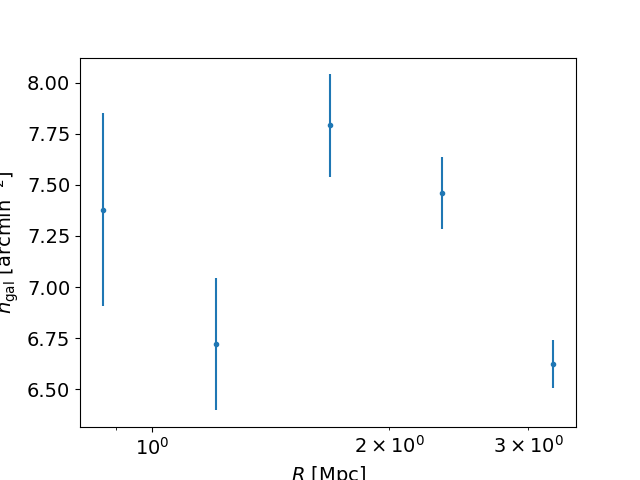
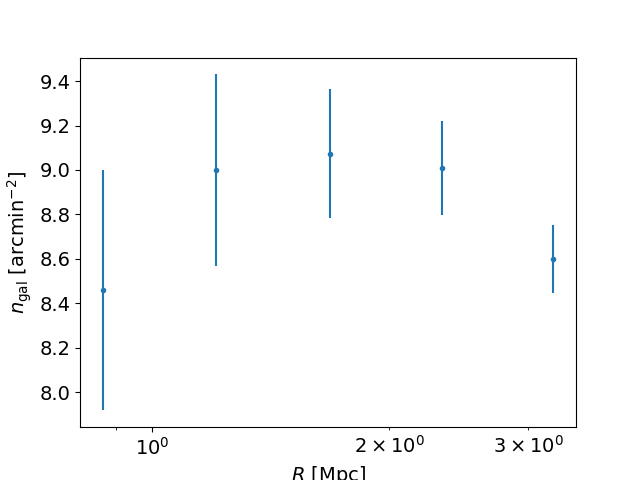
many misc. edits

diff --git a/index.md b/index.md
@@ -3,11 +3,9 @@
 ```{abstract}
 (Full author list to be determined)
 
-The purpose of this technote is to test the technical quality of LSSTComCam commissioning data, specifically the Rubin_SV_38_7 field, by utilizing cell-based coadds and Metadetection by measuring the tangential and cross weak lensing shear profiles of the massive cluster Abell 360 (called A360 throughout the technote). The process entails generating the cell-based coadds for Metadetection to run on, identifying and removing cluster member galaxies, applying quality cuts, and calibrating the shear measurements. Once a shear profile is generated, validation is the bulk of the remaining analysis.
+The purpose of this technote is to test the technical quality of LSSTComCam commissioning data, specifically the Rubin_SV_38_7 field, by utilizing cell-based coadds and Metadetection by measuring the tangential and cross weak lensing shear profiles of the massive cluster Abell 360 (called A360 throughout the technote). The process entails generating the cell-based coadds for Metadetection to run on, identifying and removing cluster member galaxies, applying quality cuts, calibrating the shear measurements, and validation.
 
-Cell-based coadds and Metadetection are both currently in the process of being implemented within the LSST Science Pipelines at the time of this technote. There is substantial technical value in attempting a difficult measurement prior to full implementation. Measuring the tangential shear around A360 will showcase the current abilities of these algorithms, as well as highlight where work is still needed.
-
-As seen from the resulting shear profile of A360, the cell-based coadds and Metadetection are able to work in tandem to produce a shear catalog. The shear profile performs best in radial bins further away from the cluster center (beyond ~ 2 Mpc), which may be due to high occurances of blending near the cluster center.
+Cell-based coadds and Metadetection are both currently in the process of being implemented within the LSST Science Pipelines at the time of this technote. There is substantial technical value in attempting a difficult measurement prior to full implementation. Measuring the tangential shear around A360 will showcase the current abilities of these algorithms, as well as highlight where work is still needed. As seen from the resulting shear profile of A360, the cell-based coadds and Metadetection are able to work in tandem to produce a shear catalog and resulting reduced shear profile.
 
 This technote is one part of a series studying A360 in order to both stress test the commissioning camera  and demonstrate the technical capabilities of the Vera Rubin Observatory. We study the quality of the PSF modeling and impact it can have on cluster WL in {cite:p}`SITCOMTN-161`, implementation of cell-based coadds and subsequent use for Metadetect {cite:p}`Sheldon_2023` in this technote, photometric calibration in (in prep), source selection and photometric redshifts in {cite:p}`SITCOMTN-163`, use of Anacal {cite:p}`Li_2023` to produce a cluster shear profile in {cite:p}`SITCOMTN-164`, and background subtraction in this field and Fornax in {cite:p}`SITCOMTN-165`.
 ```
@@ -212,13 +210,13 @@ tasks:
                 config.ref_loader.filterMap = {'lsst_'+band: 'monster_ComCam_%s' % (band) for band in 'ugrizy'}
 ```
 
-An important note is that, for this analysis, a single noise image is associated for each cell within Metadetection. A noise image is generated for each warp that is also subjected to the warping process, which is needed to accurately capture correlated noise ({cite:p}`Sheldon_2017`, {cite:p}`Sheldon_2020`). The noise distribution is randomly pulled from a Gaussian distribution centered at 0 with a variance equal to the median variance of the input image.
+An important note is that, for this analysis, a single noise image is associated for each cell within Metadetection. A noise image is generated for each warp that is also subjected to the warping process, which is needed to accurately capture correlated noise ({cite:p}`Sheldon_2017`, {cite:p}`Sheldon_2020`). The noise distribution is randomly pulled from a Gaussian distribution centered at zero with a variance equal to the median variance of the input image.
 
-After removing duplicated objects from patch overlap, there are a total of 1174579 object rows across the five shear type catalogs. After removing objects flagged by Metadetection (i.e. objects cut due to measurement failures), there are 967436 objects, about 17.6% of the initial catalog. The number of flagged objects is quite high, and requires further investigation.
+The raw catalog immediately after running Metadetection contains 1398239 objects total. After removing objects flagged by Metadetection (i.e. objects cut due to measurement failures), there are 984169 total objects. Removing duplicates from patch overlap reduce the catalog to 805401 objects, and removing duplicates from individual cell overlaps leaves 443,615 objects. The non-sheared sub-catalog is consistently ~20% of the total catalog.
 
 ## Red Sequence Galaxy Identification
 
-Cluster member galaxies of the lensing cluster structure will not have a lensing signal (at least not from the cluster itself). Due to this, these galaxies need to be identified and removed from the lensing sample to avoid diluting the shear signal ({cite:p}`signal_dilution`). These lensing galaxies are primarily identified through visual inspection using color-magnitude plots across three different bands in this technote. Other methods, like photometric redshifts, may also be used, though using only three available bands limits this approach.
+Cluster member galaxies of the lensing cluster structure will not have a lensing signal (at least not from the cluster itself). Due to this, these galaxies need to be identified and removed from the lensing sample to avoid diluting the shear signal ({cite:p}`signal_dilution`). These lensing galaxies are primarily identified through visual inspection using color-magnitude plots across three different bands in this technote. Other methods, like photometric redshifts, may also be used, though using only three available bands limits this approach. The RS identification here is done prior to other cuts to more easily visually identify the red sequence galaxies.
 
 ```{figure} _static/object-magnitudes.png
 :name: obj-mags
@@ -230,9 +228,9 @@ A series of color-magnitude plots with progressive cuts is used to visually iden
 
 The catalog is first cut to galaxies less than 0.1 degree away from the BCG to focus on galaxies that are more likely to be cluster members. The red sequence cluster members are identified in a line of objects with relatively consistent color across a range of magnitudes, with the line being more apparent in the smaller sample of galaxies. This line of galaxies is highlighted with orange points, with the upper and lower limits shown in red. The same visual inspection is done again for the larger sample of galaxies, those within 0.5 degrees of the BCG.
 
-RS galaxies are selected if they satisfy one of the two requirements in all 3 color-magnitude diagrams: the data point falls within the range identified during visual inspection, **or** the 1-$\sigma$ error bars for the color measurement intersect the RS range. The error bar requirement is meant to capture potential RS galaxies that may fall out of the selection region due to noisy measurements, particularly at the fainter end. The RS identification is then also limited to galaxies with `gauss_band_mag_r` < 24. While RS galaxies may be fainter than this, it becomes more difficult to distinguish between RS and background galaxies. Since unsheared foreground galaxies will dilute the signal, but not bias it, a small contamination is allowed to keep the many source galaxies that may otherwise be cut. Any remaining bright galaxies (those with `gauss_band_mag_i` < 20) are removed below as described in the selection cut section.
+RS galaxies are selected if they satisfy one of the two requirements in all 3 color-magnitude diagrams: the data point falls within the range identified during visual inspection, **or** the 1-$\sigma$ error bars for the color measurement intersect the RS range. The error bar requirement is meant to capture potential RS galaxies that may fall out of the selection region due to noisy measurements, particularly at the fainter end. The RS identification is then also limited to galaxies with 18 < `gauss_band_mag_r` < 24. While RS galaxies may be fainter than this, it becomes more difficult to distinguish between RS and background galaxies. Since unsheared foreground galaxies will dilute the signal, but not bias it, a small contamination is allowed to keep the many source galaxies that may otherwise be cut. Any remaining bright galaxies (those with `gauss_band_mag_r` < 20) are removed below as described in the selection cut section.
 
-Once the RS galaxies are identified, they are removed from the sample of galaxies within 0.5 degrees of the BCG, which the becomes the sample that goes on the further selection cuts.
+The sample of galaxies within 0.5 degrees of the BCG goes on to further selection cuts in the next section, with the identified RS galaxies removed and masks applied. The masks include bright objects, galactic cirrus, SFD dust, and areas with low numbers of exposures. Mask details can be found in (in prep technote). The impact of cuts applied within the 0.5 degree sample are summarized in {numref}`mag_dist_nums`.
 
 ```{figure} _static/01-RS-all_cuts.png
 :name: color-magnitude-0-1-orange
@@ -252,23 +250,17 @@ Color-magnitude diagram cut to 0.5 degrees within the BCG. Objects that are incl
 Color-magnitude diagram cut to 0.5 degrees within the BCG. Objects that are included within the cut are removed.
 ```
 
-After applying the 0.5 degree cut, but prior to removing RS objects, there are 595377 object rows. After applying the RS cuts, there are 258449, with 51633 (~20%) of which are the non-sheared catalog.
-
 ## Selection Cuts
 
-After Metadetection flags are applied and red sequence galaxies are identified and removed, additional selection cuts are applied. These cuts are primarily based on {cite:p}`yamamoto`, though are customized in several cases to better fit the data from LSSTComCam. A detailed outline of the cuts used and object removed can be seen in {numref}`selection_cuts`. In numerical terms, the number of objects remaining after selection cuts is 78500, with 15819 (20%) in the non-sheared catalog.
+Once the RS galaxies are removed and masks are applied, additional selection cuts are introduced. These cuts are primarily based on {cite:p}`yamamoto`, though are customized in several cases to better fit the data from LSSTComCam. A detailed outline of the cuts used and object removed can be seen in {numref}`selection_cuts`. The Yamamoto cuts describe a size ratio cut, defined as the size of the object squared divided by size of the PSF squared, or $T^{gauss}/T^{gauss}_{PSF}$. This is used as a star-galaxy cut. For the Yamamoto measurements and the measurements here, these sizes are measured for the pre-PSF objects, so stars will hover around 0 for this ratio. Based on {numref}`obj_T_vs_s2n`, the stars identified around `gauss_T_ratio` = 0 appear to fall consistently below `gauss_T_ratio` = 0.2. This smaller value is chosen instead of the Yamamoto value for the `gauss_T_ratio` cut of 0.5, since the inclusion of extra galaxies in this weak lensing sample outweighs the potential inclusion of some low S/N stars. Additional differences include the magnitude cut, which is based off of {numref}`mag-cut-hist2`, and the junk cuts and size cuts which are specific to DES and don't seem to appear to affect the final catalog using LSSTComCam data.
 
-The Yamamoto cuts describe a size ratio cut, defined as the size of the object squared divided by size of the PSF squared, or $T^{gauss}/T^{gauss}_{PSF}$. This is used as a star-galaxy cut. For the Yamamoto measurements and the measurements here, these sizes are measured for the pre-PSF objects, so stars will hover around 0 for this ratio. Based on {numref}`obj_T_vs_s2n`, the stars identified around `gauss_T_ratio` = 0 appear to fall consistently below `gauss_T_ratio` = 0.2. This smaller value is chosen instead for the `gauss_T_ratio` cut, since the inclusion of extra galaxies in the weak lensing sample outweighs the potential inclusion of some low S/N stars.
-
-There are a few additional differences from the {cite:p}`yamamoto` cuts. The magnitude cut is based off of {numref}`mag-cut-hist2` and {cite:p}`SITCOMTN-161`, while the junk cuts and size cuts are specific to DES and don't seem to appear to affect LSSTComCam data. Additionally, masks for bright objects, galactic cirrus, SFD dust, and areas with low numbers of exposures are applied. Mask details can be found in (in prep technote).
-
-:::{table} Each cut applied to the Metadetection catalog after the RS cuts. Note that the number of rows removed is for each individual cut, so cuts may overlap with other cuts.
+:::{table} Each cut applied to the Metadetection catalog after the RS cuts and applied masks. Note that the number of rows removed is for each individual cut, so cuts may overlap with other cuts.
 :name: selection_cuts
 :widths: auto
 
 | Selection Cut                            | Rows Removed | Fraction Removed |
 | :--------------------------------------- | -----------: | ---------------: |
-| `gauss_T_ratio` > 1.05                   | 76863        | 37.5%            |
+| `gauss_T_ratio` > 0.2                    | 65132        | 31.8%            |
 | `gauss_s2n` > 10                         | 30335        | 14.8%            |
 | `mfrac` < 0.1                            | 0            | 0.0%             |
 | `gauss_band_mag_i` < 23.5                | 74987        | 36.6%            |
@@ -278,33 +270,33 @@ There are a few additional differences from the {cite:p}`yamamoto` cuts. The mag
 | `gauss_color_mag_g-i` (abs. value) < 5   | 574          | 0.3%             |
 :::
 
-As a visual summary of the cuts done to produce the sample, it's helpful to plot the distribution of magnitudes, in a similar vein as Figure 2 in {cite:p}`mag_cut`. While one goal of the magnitude cut is to reduce the impact of the SNR cut (discussed more in the photo-z section), which would align closer to a cut closer to `i_mag` < 24.1, a cut of 24.0 is chosen to be consistent with {cite:p}`SITCOMTN-161`. A description of each label can be found in {numref}`mag_dist_nums`, with the numbers in the non-sheared catalog after each cut is applied. The cuts listed for {numref}`mag-cut-hist2` and {numref}`mag_dist_nums` are not in the same order that the cuts are applied within the shear profile analysis, but are rather used to understand the significance of the SNR cut.
+As a visual summary of the cuts done to produce the sample, it's helpful to plot the distribution of magnitudes, in a similar vein as Figure 2 in {cite:p}`mag_cut`. A description of each label can be found in {numref}`mag_dist_nums`, along with the numbers in the non-sheared catalog after each cut is applied. Some of the selection cuts are separated into their own rows to better capture their individual impact. Of particular note is the `i_mag` cut: while {cite:p}`SITCOMTN-161` uses a cut of 24.0, a smaller cut of 23.5 is chosen to reduce the significance of the SNR cut. We don't want SNR to be a significant cut since the photo-z data used (next section) was trained on the Extended Chandra Deep Field South (ECDFS) data, which has different SNR properties.
 
 ```{figure} _static/mag-cut-hist2.png
 :name: mag-cut-hist2
 
-Magnitude distributions of the *i*-band after various cuts done to produce the weak lensing sample. Left: All cuts are applied in the order described in {numref}'mag_dist_nums'. Right: The magnitude cut is not applied to show where the SNR cut becomes significant at fainter magnitudes and begins to remove objects. The magnitude cut is instead represented by the vertical line.
+Magnitude distributions of the *i*-band after various cuts done to produce the weak lensing sample. Left: All cuts are applied in the order described in {numref}'mag_dist_nums'. Right: The magnitude cut is not applied to show where the SNR cut becomes significant at fainter magnitudes and begins to remove a substantial number of objects. The magnitude cut is instead represented by the vertical line.
 ```
 
-:::{table} The number of objects in each of the magnitude histograms in {cite:p}`mag_cut` and the descriptions of the cuts used. While the table {numref}`selection_cuts` shows the total number of rows removed, this table is meant to show the additive effect as each cut is applied. All objects are within 0.5 degrees of the BCG.
+:::{table} The number of objects in each of the magnitude histograms in {cite:p}`mag_cut` and the descriptions of the cuts used. While the table {numref}`selection_cuts` shows the total number of rows removed, this table is meant to show the additive effect as each cut is applied. All objects are within 0.5 degrees of the BCG for consistency, such that the "all detections" and "good detections" rows may have smaller values than seen in previous sections.
 :name: mag_dist_nums
 :widths: auto
 
-| Cut Name             | Description                                         | Rows in non-sheared catalog |
-| :------------------- | :-------------------------------------------------- | --------------------------: |
-| **All detections**   | Detections that have a finite *i*-band magnitude    | 178698                      |
-| **Good detections**  | Flagged and duplicate objects removed               | 54228                       |
-| **Masks**            | Masks are applied                                   | 42806                       |
-| **WL Cuts**          | Selection cuts                                      | 39735                       |
-| **Star-galaxy**      | Size ratio cut to remove stars from the sample      | 25001                       |
-| **Magnitude Cut**    | Magnitude where SNR begins to remove objects        | 18645                       |
-| **SNR Cut**          | Objects with SNR < 10 are removed                   | 18566                       |
-| **RS Cuts**          | Red sequence galaxies are identified and removed    | 17651                       |
+| Cut Name             | Description                                       | Rows in non-sheared catalog (% of total catalog) |
+| :------------------- | :------------------------------------------------ | -----------------------------------------------: |
+| **All detections**   | Detections that have a finite *i*-band magnitude  | 172157 (20.022%)                                 |
+| **Good detections**  | Flagged and duplicate objects removed             |  54228 (20.006%)                                 |
+| **RS Cuts**          | Red sequence galaxies are identified and removed  |  51804 (20.009%)                                 |
+| **Masks**            | Masks are applied                                 |  40949 (20.000%)                                 |
+| **WL Cuts**          | Selection cuts                                    |  38297 (19.999%)                                 |
+| **Star-galaxy**      | Size ratio cut to remove stars from the sample    |  26326 (19.969%)                                 |
+| **Magnitude Cut**    | Magnitude where SNR begins to remove objects      |  18461 (19.978%)                                 |
+| **SNR Cut**          | Objects with SNR < 10 are removed                 |  18385 (19.975%)                                 |
 :::
 
-For reference against another catalog, it's useful to look at the number of objects found in the HSM catalog ({cite:p}`HSM1`, {cite:p}`HSM2`) used in {cite:p}`SITCOMTN-161` within the same 0.5 degree radius as used in this technote. The HSM catalog first reads in 175383 objects prior to any cuts, and then 12852 objects after all cuts are applied. This is a similar ballpark as the final Metadetect catalog size of 17651, especially considering that the selection and quality cuts of two catalogs differ due to the nature of separate catalogs.
+For reference against another catalog, it's useful to look at the number of objects found in the HSM catalog ({cite:p}`HSM1`, {cite:p}`HSM2`) used in {cite:p}`SITCOMTN-161` within the same 0.5 degree radius as used in this technote. The HSM catalog first reads in 175383 objects prior to any cuts, and then 12852 objects after all cuts are applied. This is a similar ballpark as the final Metadetect catalog size of 18385, especially considering that the selection and quality cuts of two catalogs differ due to the nature of separate catalogs.
 
-The global source density for Metadetection is 8.14 $\pm$ 0.1 $\text{arcmin}^{-2}$, comparable to the 7-8 $\text{arcmin}^{-2}$ range found using the HSM catalog in {cite:p}`SITCOMTN-161`. The density for the Metadetection catalog does trend a bit higher, towards the range of 8-9 $\text{arcmin}^{-2}$, though this is likely due to the fact that this HSM estimate does not yet account for the area affected by masks.
+The source density across all radial bins for Metadetection is 8.5 $\pm$ 0.1 $\text{arcmin}^{-2}$, with a range of 8-9.4 $\text{arcmin}^{-2}$, as seen in {numref}`galaxy-den-profile`. The density for the Metadetection catalog does trend higher than the HSM catalog, which has a range of 7-8 $\text{arcmin}^{-2}$. This is most likely due to the final sizes of the different catalogs, though it should also be noted that the HSM catalog does not yet incorporate masks, which will affect both the final number count and effective area covered by the catalog.
 
 ```{figure} _static/gal_den_profile.png
 :name: galaxy-den-profile
@@ -316,7 +308,7 @@ The galaxy density within each radial bin used for the shear profile. Error bars
 
 In order to model a shear profile to compare to the observed data, an $N(z)$ estimate will be needed. With the utilities available in the Cluster Lensing Mass Modeling (CLMM) code {cite:p}`clmm`, there is a default source redshift distribution based off of the DESC Science Requirements Document (SRD, {cite:p}`desc-srd`) Y10 N(z). However, this is not very representative of the data that's being used here, which is comparatively much shallower. Instead, the initial photo-z catalog used here is created with DNF ({cite:p}`DNF_pz`) on DP1 data, produced in the same manner as described in {cite:p}`SITCOMTN-163`.
 
-The objects in the Metadetection catalogs are then matched to the objects in the DP1 catalogs by nearest neighbor, based on RA/DEC coordinates and limited to matches within 1 arcsecond. The matching is only needed for the non-sheared catalog, which is the catalog used for the $N(z)$ estimate. Objects are then additionally cut from the matched catalogs if they fall below a redshift estimate of 0.37, based on the cut used in {cite:p}`SITCOMTN-163`. The $N(z)$ generated by the method above is ***not*** used for the shear profile generated by the data, only for the test model used for reference. Future works with Metadetection data should run photo-z algorithms on each of the shear profile catalogs individually to fully capture the additional selection effects within the response.
+The objects in the Metadetection catalogs are then matched to the objects in the DP1 catalogs by nearest neighbor, based on RA/DEC coordinates and limited to matches within 1 arcsecond. The matching is only needed for the non-sheared catalog, which is the catalog used for the $N(z)$ estimate. Objects are then additionally cut from the matched catalogs if they fall below a redshift estimate of 0.37, based on the cut used in {cite:p}`SITCOMTN-163`. The final number in the matched photo-z catalog is 14181 for the non-sheared subset. The $N(z)$ generated by the method above is ***not*** used for the shear profile generated by the data, only for the test model used for reference. Future works with Metadetection data should run photo-z algorithms on each of the shear profile catalogs individually to fully capture the additional selection effects within the response.
 
 Once the matched catalogs are created, and using a standard cosmology ($\Omega_m=0.3$, $h=0.7$), the statistics of the lensing efficiency can be calculated. The CLMM package has tools for calculating these using the photo-z point estimate of each galaxy, with the theory based on {cite:p}`beta_theory`, which will be summarized below.
 
